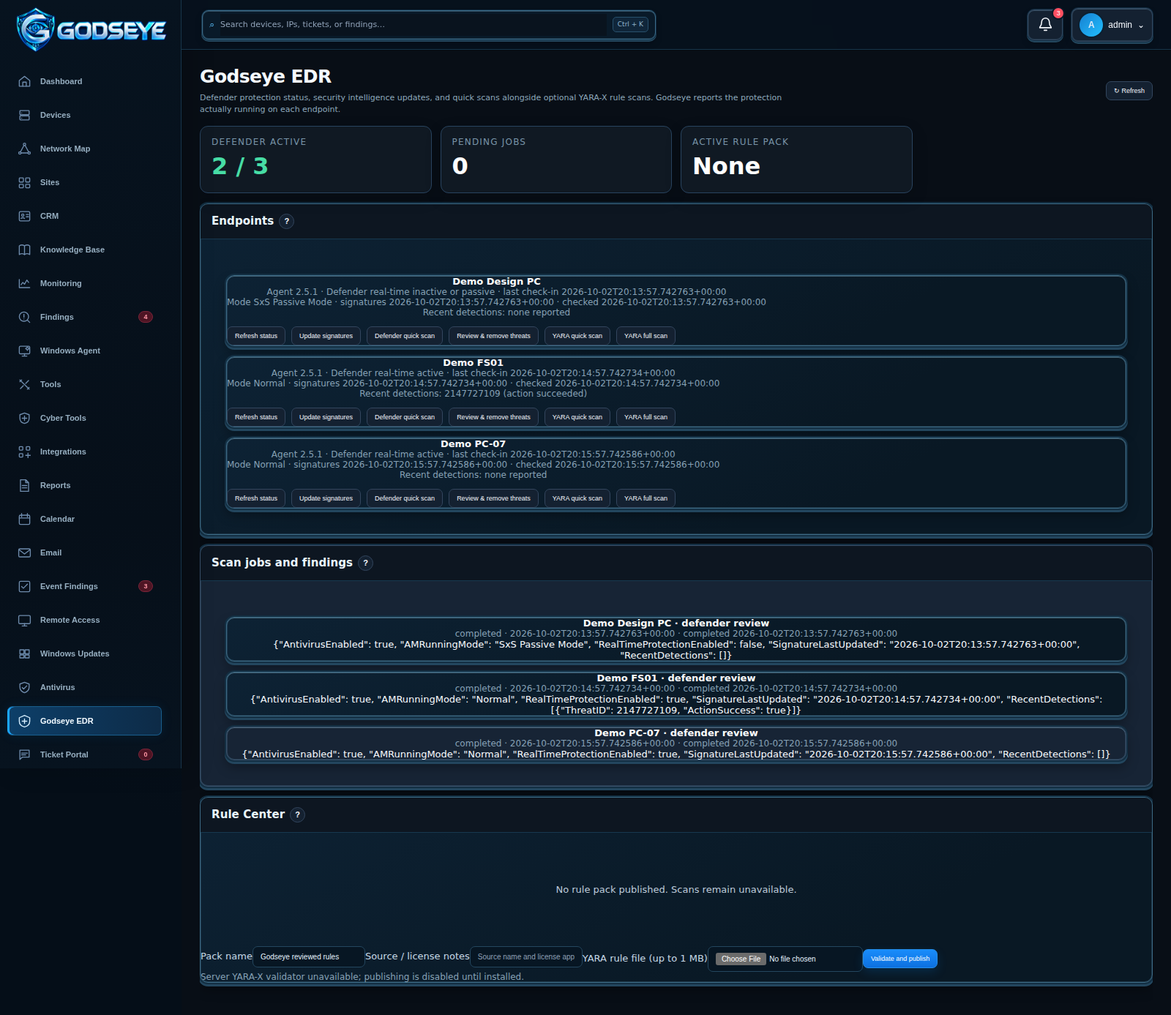
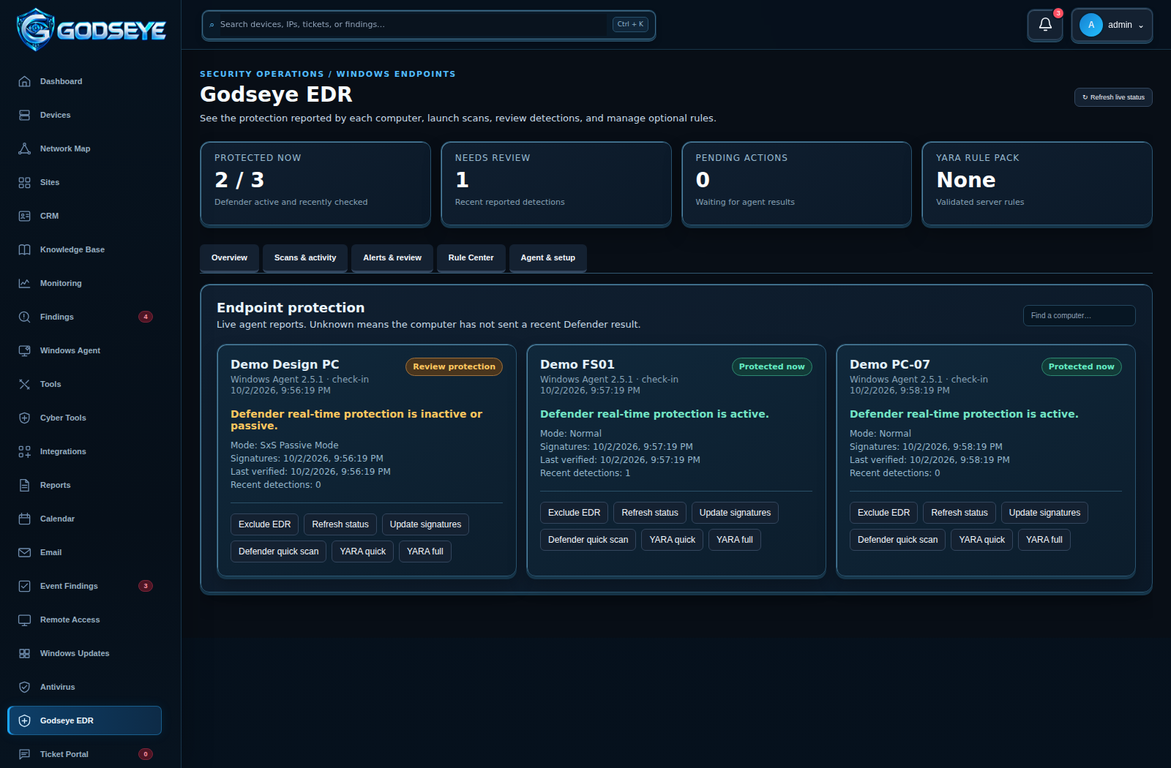
Bring Godseye EDR workspace closer to approved live mockup (#29)
* Match EDR workspace layout and actionable views

* Publish live EDR captures and exercise scan flow

diff --git a/app/main.py b/app/main.py
@@ -7123,6 +7123,7 @@ html:not([data-theme="dark"]) :is(.card,.panel,.tool-card,.integration-card,.ana
 html:not([data-theme="dark"]) :is(.v430-global-search,.v430-bell,.user-chip,.authcard .input,.authcard button.primary){border-radius:9px!important;box-shadow:inset 0 1px 0 rgba(255,255,255,.6),0 0 0 1px #d9e9f2,0 2px 0 1px #a6c7dc,0 5px 10px rgba(27,59,84,.12)!important}
 .role-access-card{margin:18px 16px;padding:18px;border:1px solid #3d6b86;border-radius:11px;background:linear-gradient(150deg,#0d2234,#091824);box-shadow:inset 0 1px #7699ad,0 3px #23465e,0 9px 16px #0005}
 .role-access-intro{padding:14px 18px 0}.role-access-tabs{display:flex;gap:8px;flex-wrap:wrap;margin:16px 0}.role-tab.selected{background:#1477c2;color:white;border-color:#4ab6fd}.role-access-head,.role-access-row{display:grid;grid-template-columns:minmax(140px,1fr) repeat(3,minmax(72px,108px));align-items:center;gap:5px;padding:8px 4px}.role-access-head{color:#89acc4;text-transform:uppercase;letter-spacing:1px;font-size:10px}.role-access-head span:not(:first-child){text-align:center}.role-access-row{border-bottom:1px solid #264153;min-height:39px}.role-access-row label{text-align:center;cursor:pointer}.role-access-row input{accent-color:#249cf0;width:17px;height:17px}.role-access-group{color:#62bafa;font-size:11px;font-weight:800;letter-spacing:1px;text-transform:uppercase;margin-top:16px;border-bottom:1px solid #35566d;padding:7px 4px}.role-access-card .actions{padding:18px 4px 0}@media(max-width:650px){.role-access-card{margin:12px 5px;padding:10px}.role-access-head,.role-access-row{grid-template-columns:minmax(105px,1fr) repeat(3,62px);font-size:11px}}
+.edr-workspace{max-width:1440px;margin:auto;color:#e8f4ff}.edr-header{display:flex;justify-content:space-between;align-items:center;gap:18px;margin:4px 0 21px}.edr-header h1{margin:5px 0 6px;font-size:28px}.edr-header p,.edr-section-heading p{color:#91b5d0;margin:0;font-size:13px;line-height:1.5}.edr-eyebrow{color:#51bcff;font-size:11px;font-weight:800;letter-spacing:.13em}.edr-metrics{display:grid;grid-template-columns:repeat(4,minmax(0,1fr));gap:13px}.edr-metric,.edr-tab-pane,.edr-endpoint,.edr-activity-row,.edr-rule-row,.edr-setup-grid>div{border:1px solid #2a5571;background:linear-gradient(145deg,#101f30,#0b1928);box-shadow:inset 1px 1px 0 #5183a0,0 4px 0 #17364a,0 13px 25px #0004;border-radius:13px}.edr-metric{padding:15px 19px;min-height:115px}.edr-metric span,.edr-metric small{display:block;color:#97b9cf}.edr-metric span{font-size:12px;letter-spacing:.08em;text-transform:uppercase}.edr-metric strong{display:block;font-size:28px;line-height:1.25;margin:6px 0;color:#f3faff}.edr-metric:first-child strong{color:#36d6aa}.edr-metric small{font-size:11px}.edr-tabs{display:flex;gap:5px;margin:26px 0 14px;border-bottom:1px solid #315771;overflow:auto}.edr-tab{padding:12px 16px;white-space:nowrap;border:0;border-bottom:3px solid transparent;background:transparent;color:#a4c7df;font-weight:700;cursor:pointer}.edr-tab:hover,.edr-tab.selected{color:#fff;background:#11314b}.edr-tab.selected{border-bottom-color:#36b7ff}.edr-tab-pane{padding:21px 22px;margin-bottom:18px;min-height:250px}.edr-tab-pane[hidden]{display:none}.edr-section-heading{display:flex;justify-content:space-between;gap:20px;align-items:center;margin-bottom:17px}.edr-section-heading h2{font-size:18px;margin:0 0 3px}.edr-section-heading input{max-width:255px}.edr-endpoints{display:grid;grid-template-columns:repeat(auto-fit,minmax(310px,1fr));gap:13px}.edr-endpoint{padding:18px;min-width:0;background:linear-gradient(150deg,#10283b,#0c1d2c)}.edr-endpoint-top{display:flex;justify-content:space-between;gap:10px;align-items:flex-start}.edr-endpoint h3{font-size:16px;margin:0 0 3px}.edr-endpoint small,.edr-endpoint .edr-meta{color:#94b6cb;font-size:12px}.edr-state{border:1px solid #4b6778;border-radius:99px;padding:5px 9px;font-size:11px;font-weight:800;white-space:nowrap;color:#b8d4e4}.edr-state.active{color:#64ecc3;border-color:#2e8a73;background:#123b38}.edr-state.warning{color:#ffc583;border-color:#9f713d;background:#49351d}.edr-endpoint-status{margin:17px 0 10px;font-size:14px;font-weight:700}.edr-endpoint-status.active{color:#73e4c5}.edr-endpoint-status.warning{color:#ffc583}.edr-endpoint .edr-meta{line-height:1.5;overflow-wrap:anywhere}.edr-actions{display:flex;gap:7px;flex-wrap:wrap;border-top:1px solid #2a5068;margin-top:15px;padding-top:14px}.edr-actions button{font-size:12px;padding:7px 10px}.edr-activity{display:grid;gap:9px}.edr-activity-row,.edr-rule-row{padding:13px 16px;display:flex;justify-content:space-between;gap:12px;align-items:center}.edr-activity-row b,.edr-rule-row b{display:block;font-size:14px}.edr-activity-row small,.edr-rule-row small{display:block;color:#95b7cf;margin-top:4px;line-height:1.5}.edr-result{color:#c9e2f3;margin-top:8px;font-size:12px;overflow-wrap:anywhere}.edr-rule-list{display:grid;gap:10px}.edr-rule-upload{display:grid;grid-template-columns:1fr 1fr 1fr auto;gap:12px;align-items:end;margin-top:20px;border-top:1px solid #32536a;padding-top:18px}.edr-rule-upload label{font-size:12px;color:#b6d3e5}.edr-rule-upload input{display:block;margin-top:6px;width:100%}.edr-setup-grid{display:grid;grid-template-columns:repeat(3,minmax(0,1fr));gap:14px}.edr-setup-grid>div{padding:19px}.edr-setup-grid p{color:#a5c1d3;font-size:13px;line-height:1.55;min-height:67px}.edr-empty{color:#a3bdd0;padding:30px;text-align:center}@media(max-width:1000px){.edr-metrics{grid-template-columns:repeat(2,1fr)}.edr-rule-upload,.edr-setup-grid{grid-template-columns:1fr}}@media(max-width:560px){.edr-metrics{grid-template-columns:1fr 1fr}.edr-metric{padding:12px;min-height:100px}.edr-metric strong{font-size:22px}.edr-section-heading{display:block}.edr-section-heading input{margin-top:12px;max-width:100%}.edr-tab-pane{padding:14px}.edr-header{align-items:flex-start}}
 </style><link rel="stylesheet" href="/assets/sites.css"><link rel="stylesheet" href="/assets/crm.css"><link rel="stylesheet" href="/assets/kb.css"></head>
 <body>
 <div id="authOverlay" class="overlay" style="display:none">
@@ -7585,11 +7586,30 @@ html:not([data-theme="dark"]) :is(.v430-global-search,.v430-bell,.user-chip,.aut
 </div>
 
 <div class="view" id="view-edr" style="display:none">
-  <div class="hero"><div><h1>Godseye EDR</h1><div class="muted">Defender protection status, security intelligence updates, and quick scans alongside optional YARA-X rule scans. Godseye reports the protection actually running on each endpoint.</div></div><div class="actions"><button class="secondary" onclick="loadEdr()">↻ Refresh</button></div></div>
-  <div class="cards"><div class="card"><div class="label">Defender active</div><div class="num green" id="edrProtected">—</div></div><div class="card"><div class="label">Pending jobs</div><div class="num" id="edrPending">—</div></div><div class="card"><div class="label">Active rule pack</div><div class="num" id="edrPack">—</div></div></div>
-  <section class="panel"><div class="table-head"><div><h2>Endpoints</h2><div class="muted">Enable Godseye monitoring per endpoint. Defender supplies real-time protection when active. The existing agent and remote support continue when Godseye EDR is excluded.</div></div></div><div id="edrEndpoints" class="empty">Loading…</div></section>
-  <section class="panel"><div class="table-head"><div><h2>Scan jobs and findings</h2><div class="muted">A rule match needs review. A scan error is shown as an error, never as a clean result.</div></div></div><div id="edrJobs" class="empty">Loading…</div></section>
-  <section class="panel"><div class="table-head"><div><h2>Rule Center</h2><div class="muted">Review licenses and source before publishing. Rule packs are checked by YARA-X on the server.</div></div></div><div id="edrRules" class="empty">Loading…</div><div class="admin-only"><label>Pack name<input id="edrRuleName" class="input" value="Godseye reviewed rules" maxlength="120"></label><label>Source / license notes<input id="edrRuleSource" class="input" placeholder="Source name and license approval" maxlength="200"></label><label>YARA rule file (up to 1 MB)<input id="edrRuleFile" class="input" type="file" accept=".yar,.yara,text/plain"></label><div class="actions"><button class="primary" onclick="publishEdrRules()">Validate and publish</button></div></div><div id="edrStatus" class="muted" role="status"></div></section>
+ <div class="edr-workspace">
+  <div class="edr-header"><div><div class="edr-eyebrow">SECURITY OPERATIONS / WINDOWS ENDPOINTS</div><h1>Godseye EDR</h1><p>See the protection reported by each computer, launch scans, review detections, and manage optional rules.</p></div><div class="actions"><button class="secondary" onclick="loadEdr()">↻ Refresh live status</button></div></div>
+  <div class="edr-metrics">
+   <div class="edr-metric"><span>Protected now</span><strong id="edrProtected">—</strong><small>Defender active and recently checked</small></div>
+   <div class="edr-metric"><span>Needs review</span><strong id="edrAlerts">—</strong><small>Recent reported detections</small></div>
+   <div class="edr-metric"><span>Pending actions</span><strong id="edrPending">—</strong><small>Waiting for agent results</small></div>
+   <div class="edr-metric"><span>YARA rule pack</span><strong id="edrPack">—</strong><small>Validated server rules</small></div>
+  </div>
+  <div class="edr-tabs" role="tablist" aria-label="Godseye EDR sections">
+   <button class="edr-tab selected" type="button" role="tab" aria-selected="true" data-edr-tab="overview" onclick="showEdrTab('overview')">Overview</button>
+   <button class="edr-tab" type="button" role="tab" aria-selected="false" data-edr-tab="scans" onclick="showEdrTab('scans')">Scans &amp; activity</button>
+   <button class="edr-tab" type="button" role="tab" aria-selected="false" data-edr-tab="alerts" onclick="showEdrTab('alerts')">Alerts &amp; review</button>
+   <button class="edr-tab" type="button" role="tab" aria-selected="false" data-edr-tab="rules" onclick="showEdrTab('rules')">Rule Center</button>
+   <button class="edr-tab" type="button" role="tab" aria-selected="false" data-edr-tab="setup" onclick="showEdrTab('setup')">Agent &amp; setup</button>
+  </div>
+  <div class="edr-tab-pane" data-edr-pane="overview">
+   <div class="edr-section-heading"><div><h2>Endpoint protection</h2><p>Live agent reports. Unknown means the computer has not sent a recent Defender result.</p></div><input id="edrSearch" class="input" type="search" placeholder="Find a computer…" aria-label="Find an EDR computer" oninput="renderEdrEndpoints()"></div>
+   <div id="edrEndpoints" class="edr-endpoints"><div class="empty">Loading endpoints…</div></div>
+  </div>
+  <div class="edr-tab-pane" data-edr-pane="scans" hidden><div class="edr-section-heading"><div><h2>Scans &amp; activity</h2><p>Queued commands and reported results from the enrolled Windows Agents.</p></div></div><div id="edrJobs" class="edr-activity"><div class="empty">Loading activity…</div></div></div>
+  <div class="edr-tab-pane" data-edr-pane="alerts" hidden><div class="edr-section-heading"><div><h2>Alerts &amp; review</h2><p>Review Defender detections and YARA matches before taking action.</p></div></div><div id="edrAlertList" class="edr-activity"><div class="empty">Loading detections…</div></div></div>
+  <div class="edr-tab-pane" data-edr-pane="rules" hidden><div class="edr-section-heading"><div><h2>Rule Center</h2><p>Validate a local YARA file, publish it, or activate an earlier reviewed pack.</p></div></div><div id="edrRules" class="edr-rule-list"><div class="empty">Loading rule packs…</div></div><div class="edr-rule-upload admin-only"><label>Pack name<input id="edrRuleName" class="input" value="Godseye reviewed rules" maxlength="120"></label><label>Source and license notes<input id="edrRuleSource" class="input" placeholder="Rule source and license approval" maxlength="200"></label><label>YARA file, up to 1 MB<input id="edrRuleFile" class="input" type="file" accept=".yar,.yara,text/plain"></label><button class="primary" onclick="publishEdrRules()">Validate &amp; publish</button></div><p id="edrStatus" class="muted" role="status"></p></div>
+  <div class="edr-tab-pane" data-edr-pane="setup" hidden><div class="edr-section-heading"><div><h2>Agent &amp; setup</h2><p>EDR monitoring is optional. Core remote support remains available when EDR is excluded.</p></div></div><div class="edr-setup-grid"><div><b>1 · Enroll the computer</b><p>Install Windows Agent 2.5.1, then confirm it checks in.</p><button class="secondary" onclick="openWindowsAgentModal()">Open Windows Agent setup</button></div><div><b>2 · Select EDR</b><p>In Overview, enable monitoring on the computer. Defender continues to use Microsoft's own security intelligence and protection settings.</p><button class="secondary" onclick="showEdrTab('overview')">View endpoints</button></div><div><b>3 · Add optional YARA scans</b><p>Install the scanner component and publish reviewed YARA rules. Rule matches require technician review.</p><button class="secondary" onclick="showEdrTab('rules')">Open Rule Center</button></div></div></div>
+ </div>
 </div>
 
 <div class="view" id="view-tickets" style="display:none">
@@ -8909,22 +8929,58 @@ async function closeCurrentTicket(){
 }
 async function loadClamAvAgents(){const el=document.getElementById('clamavAgentList');if(!el)return;try{const rows=await json('/api/v1/windows-agents');const agents=Array.isArray(rows)?rows:[];el.innerHTML=agents.length?agents.map(a=>`<div class="panel" style="display:flex;align-items:center;justify-content:space-between;gap:12px;margin:8px 0"><div><b>${esc(a.computer_name||a.hostname||'Windows Agent')}</b><div class="muted">${esc(a.agent_version||'unknown')} · ${a.online?'Online':'Offline'} · ClamAV runs locally</div></div><button class="primary" ${a.online?'':'disabled'} onclick="queueClamAvScan(${a.id})">Scan with ClamAV</button></div>`).join(''):'<div class="empty">No enrolled Windows Agents.</div>'}catch(e){el.textContent='Unable to load Windows Agents: '+e.message}}
 async function queueClamAvScan(id){try{const r=await json('/api/v1/windows-agents/'+id+'/clamav-scan',{method:'POST'});alert(r.message||'ClamAV scan queued.')}catch(e){alert('Could not queue ClamAV scan: '+e.message)}}
+let EDR_VIEW_DATA=null;
+function showEdrTab(name){
+  document.querySelectorAll('#view-edr .edr-tab').forEach(el=>{const selected=el.dataset.edrTab===name;el.classList.toggle('selected',selected);el.setAttribute('aria-selected',String(selected))});
+  document.querySelectorAll('#view-edr .edr-tab-pane').forEach(el=>el.hidden=el.dataset.edrPane!==name);
+}
+function edrTime(value){if(!value)return 'Never';const date=new Date(value);return Number.isNaN(date.getTime())?'Unknown':date.toLocaleString()}
+function edrFresh(a){return !!(a.defender_checked_at&&Date.now()-Date.parse(a.defender_checked_at)<10*60*1000&&Date.parse(a.defender_checked_at)<=Date.now()+60000)}
+function edrDetections(a){const items=a.defender?.RecentDetections;return Array.isArray(items)?items:(items?[items]:[])}
+function edrJobSummary(j){
+  const result=j.result||{};
+  if(j.status==='failed'||result.ok===false)return result.details||result.error||'The agent reported a failed action.';
+  if(['pending','delivered'].includes(j.status))return 'Waiting for the agent to report its result.';
+  if(j.command_type==='defender_review')return 'Protection status received from the computer.';
+  if(result.details)return String(result.details);
+  if(j.command_type==='defender_quick_scan')return 'Defender scan completed. Review the endpoint status and protection history.';
+  if(j.command_type==='defender_update')return 'Defender security intelligence update completed.';
+  if(j.command_type==='defender_remediate')return 'Defender removal command completed. Refresh status to verify the outcome.';
+  if(j.command_type==='edr_scan'){const matches=result.matches||result.findings||[];return matches.length?matches.length+' YARA match(es) require review.':'YARA scan completed without reported matches.'}
+  return 'Agent completed the action.';
+}
+function renderEdrEndpoints(){
+ const el=document.getElementById('edrEndpoints');if(!el||!EDR_VIEW_DATA)return;
+ const query=(document.getElementById('edrSearch')?.value||'').trim().toLowerCase(),agents=(EDR_VIEW_DATA.agents||[]).filter(a=>!query||String(a.computer_name||'').toLowerCase().includes(query));
+ el.innerHTML=agents.length?agents.map(a=>{
+  const version=String(a.agent_version||'0.0.0').split('.').map(Number),ready=version[0]>2||(version[0]===2&&version[1]>=5),updateReady=ready&&(version[0]>2||version[1]>5||version[2]>=1);
+  const fresh=edrFresh(a),active=a.edr_enabled&&fresh&&a.defender?.RealTimeProtectionEnabled===true;
+  const detections=edrDetections(a),state=!a.edr_enabled?'EDR excluded':!fresh?'Status unknown':active?'Protected now':'Review protection';
+  const status=!a.edr_enabled?'Monitoring is off for this endpoint.':!fresh?'No recent Defender report. Refresh this computer.':active?'Defender real-time protection is active.':'Defender real-time protection is inactive or passive.';
+  return `<article class="edr-endpoint"><div class="edr-endpoint-top"><div><h3>${esc(a.computer_name||'Windows computer')}</h3><small>Windows Agent ${esc(a.agent_version||'unknown')} · check-in ${esc(edrTime(a.last_heartbeat_at))}</small></div><span class="edr-state ${active?'active':'warning'}">${esc(state)}</span></div><div class="edr-endpoint-status ${active?'active':'warning'}">${esc(status)}</div><div class="edr-meta">Mode: ${esc(a.defender?.AMRunningMode||'Unknown')}<br>Signatures: ${esc(edrTime(a.defender?.SignatureLastUpdated))}<br>Last verified: ${esc(edrTime(a.defender_checked_at))}<br>Recent detections: ${detections.length}</div><div class="edr-actions"><button class="secondary admin-only" ${ready?'':'disabled'} onclick="setEdrPolicy(${a.id},${a.edr_enabled?0:1})">${a.edr_enabled?'Exclude EDR':'Enable EDR'}</button><button class="secondary operate-only" ${ready&&a.edr_enabled?'':'disabled'} onclick="queueDefender(${a.id},'refresh')">Refresh status</button><button class="secondary operate-only" ${updateReady&&a.edr_enabled?'':'disabled'} onclick="queueDefender(${a.id},'update')">Update signatures</button><button class="secondary operate-only" ${ready&&a.edr_enabled&&active?'':'disabled'} onclick="queueDefender(${a.id},'quick')">Defender quick scan</button><button class="secondary operate-only" ${ready&&a.edr_enabled&&EDR_VIEW_DATA.active_pack?'':'disabled'} onclick="queueEdrScan(${a.id},'quick')">YARA quick</button><button class="secondary operate-only" ${ready&&a.edr_enabled&&EDR_VIEW_DATA.active_pack?'':'disabled'} onclick="queueEdrScan(${a.id},'full')">YARA full</button></div></article>`;
+ }).join(''):'<div class="edr-empty">No enrolled Windows computers match this search.</div>';
+ applyRoleVisibility();
+}
 async function loadEdr(){
-  const target=document.getElementById('edrEndpoints');if(!target)return;
-  try{
-    const d=await json('/api/v1/edr/overview'),agents=d.agents||[],jobs=d.jobs||[];
-    document.getElementById('edrProtected').textContent=agents.filter(a=>a.edr_enabled&&a.defender?.RealTimeProtectionEnabled===true&&a.defender_checked_at&&Date.now()-Date.parse(a.defender_checked_at)<10*60*1000).length+' / '+agents.filter(a=>a.edr_enabled).length;
-    document.getElementById('edrPending').textContent=jobs.filter(j=>['pending','delivered'].includes(j.status)).length;
-    document.getElementById('edrPack').textContent=d.active_pack?'v'+d.active_pack.version:'None';
-    target.innerHTML=agents.length?agents.map(a=>{const capable=(a.agent_version||'').split('.').map(Number);const ready=capable[0]>2||(capable[0]===2&&capable[1]>=5),updateReady=ready&&(capable[0]>2||capable[1]>5||capable[2]>=1);
-      const fresh=a.defender_checked_at&&Date.now()-Date.parse(a.defender_checked_at)<10*60*1000;const state=!a.edr_enabled?'Godseye monitoring excluded':!fresh?'Defender status unknown or stale':a.defender?.RealTimeProtectionEnabled===true?'Defender real-time active':'Defender real-time inactive or passive';
-      const detections=Array.isArray(a.defender?.RecentDetections)?a.defender.RecentDetections:(a.defender?.RecentDetections?[a.defender.RecentDetections]:[]);
-      const details=a.edr_enabled&&a.defender_checked_at?`<div class="muted">Mode ${esc(a.defender?.AMRunningMode||'unknown')} · signatures ${esc(a.defender?.SignatureLastUpdated||'unknown')} · checked ${esc(a.defender_checked_at)}</div><div class="muted">Recent detections: ${detections.length?detections.map(x=>esc(String(x.ThreatID||'unknown')+' ('+(x.ActionSuccess?'action succeeded':'review action')+')')).join(', '):'none reported'}</div>`:'';
-      return `<div class="panel" style="display:flex;flex-wrap:wrap;justify-content:space-between;gap:12px;align-items:center"><div><b>${esc(a.computer_name)}</b><div class="muted">Agent ${esc(a.agent_version||'unknown')} · ${esc(state)} · last check-in ${esc(a.last_heartbeat_at||'never')}</div>${details}</div><div class="actions"><button class="secondary admin-only" ${ready?'':'disabled'} onclick="setEdrPolicy(${a.id},${a.edr_enabled?0:1})">${a.edr_enabled?'Exclude EDR':'Enable EDR'}</button><button class="secondary" ${ready&&a.edr_enabled?'':'disabled'} onclick="queueDefender(${a.id},'refresh')">Refresh status</button><button class="secondary" ${updateReady&&a.edr_enabled?'':'disabled'} onclick="queueDefender(${a.id},'update')">Update signatures</button><button class="secondary" ${ready&&a.edr_enabled&&a.defender?.RealTimeProtectionEnabled===true?'':'disabled'} onclick="queueDefender(${a.id},'quick')">Defender quick scan</button><button class="secondary" ${ready&&a.edr_enabled&&detections.length?'':'disabled'} onclick="queueDefender(${a.id},'remediate')">Review &amp; remove threats</button><button class="secondary" ${ready&&a.edr_enabled&&d.active_pack?'':'disabled'} onclick="queueEdrScan(${a.id},'quick')">YARA quick scan</button><button class="secondary" ${ready&&a.edr_enabled&&d.active_pack?'':'disabled'} onclick="queueEdrScan(${a.id},'full')">YARA full scan</button></div></div>`}).join(''):'<div class="empty">No enrolled Windows Agents.</div>';
-    document.getElementById('edrJobs').innerHTML=jobs.length?jobs.map(j=>`<div class="panel"><b>${esc(j.computer_name)} · ${esc(j.command_type==='edr_scan'?j.scan_type+' YARA scan':j.command_type.replaceAll('_',' '))}</b><div class="muted">${esc(j.status)} · ${esc(j.requested_at)} ${j.completed_at?'· completed '+esc(j.completed_at):''}</div><div>${esc(j.result?.details||'Waiting for agent check-in')}</div></div>`).join(''):'<div class="empty">No scans queued yet.</div>';
-    document.getElementById('edrRules').innerHTML=(d.packs||[]).length?d.packs.map(p=>`<div class="panel"><b>v${p.version} · ${esc(p.name)}</b> ${p.active?'<span class="badge">Active</span>':`<button class="secondary admin-only" onclick="activateEdrRules(${p.version})">Activate / rollback</button>`}<div class="muted">${esc(p.source)} · SHA-256 ${esc(p.sha256.slice(0,16))}… · ${esc(p.created_at)}</div></div>`).join(''):'<div class="empty">No rule pack published. Scans remain unavailable.</div>';
-    document.getElementById('edrStatus').textContent=d.engine_ready?'Server rule validator ready.':'Server YARA-X validator unavailable; publishing is disabled until installed.';
-  }catch(e){target.textContent='Could not load EDR: '+e.message}
+ const target=document.getElementById('edrEndpoints');if(!target)return;
+ try{
+  const d=await json('/api/v1/edr/overview'),agents=d.agents||[],jobs=d.jobs||[];EDR_VIEW_DATA=d;
+  const monitored=agents.filter(a=>a.edr_enabled),protectedNow=monitored.filter(a=>edrFresh(a)&&a.defender?.RealTimeProtectionEnabled===true);
+  const detections=monitored.flatMap(a=>edrDetections(a).map(x=>({agent:a,threat:x})));
+  const matches=jobs.filter(j=>j.command_type==='edr_scan'&&j.status==='completed').flatMap(j=>(j.result?.matches||j.result?.findings||[]).map(x=>({job:j,match:x})));
+  document.getElementById('edrProtected').textContent=protectedNow.length+' / '+monitored.length;
+  document.getElementById('edrAlerts').textContent=String(detections.length+matches.length);
+  document.getElementById('edrPending').textContent=String(jobs.filter(j=>['pending','delivered'].includes(j.status)).length);
+  document.getElementById('edrPack').textContent=d.active_pack?'v'+d.active_pack.version:'None';
+  renderEdrEndpoints();
+  document.getElementById('edrJobs').innerHTML=jobs.length?jobs.map(j=>`<div class="edr-activity-row"><div><b>${esc(j.computer_name)} · ${esc(j.command_type==='edr_scan'?j.scan_type+' YARA scan':String(j.command_type||'agent action').replaceAll('_',' '))}</b><small>${esc(edrTime(j.requested_at))} · ${esc(j.status)}${j.completed_at?' · finished '+esc(edrTime(j.completed_at)):''}</small><div class="edr-result">${esc(edrJobSummary(j))}</div></div><span class="edr-state ${j.status==='failed'?'warning':j.status==='completed'?'active':''}">${esc(j.status)}</span></div>`).join(''):'<div class="edr-empty">No scans or actions have been queued yet. Select a computer in Overview to begin.</div>';
+  const alertItems=detections.map(({agent,threat})=>`<div class="edr-activity-row"><div><b>${esc(agent.computer_name)} · Defender threat ${esc(String(threat.ThreatID||'unknown'))}</b><small>${esc(threat.ActionSuccess?'Defender reports an action succeeded':'Technician review needed')} · last checked ${esc(edrTime(agent.defender_checked_at))}</small><div class="edr-result">Confirm the detection in Windows Security protection history before removal.</div></div><button class="secondary operate-only" onclick="queueDefender(${agent.id},'remediate')">Review &amp; remove</button></div>`);
+  alertItems.push(...matches.map(({job,match})=>`<div class="edr-activity-row"><div><b>${esc(job.computer_name)} · YARA rule match</b><small>${esc(edrTime(job.completed_at))} · review required</small><div class="edr-result">${esc(typeof match==='string'?match:JSON.stringify(match))}</div></div><span class="edr-state warning">Review</span></div>`));
+  document.getElementById('edrAlertList').innerHTML=alertItems.length?alertItems.join(''):'<div class="edr-empty">No detections or YARA matches reported by monitored computers. This is not a substitute for checking endpoint protection status.</div>';
+  document.getElementById('edrRules').innerHTML=(d.packs||[]).length?d.packs.map(p=>`<div class="edr-rule-row"><div><b>v${p.version} · ${esc(p.name)}</b><small>${esc(p.source)} · SHA-256 ${esc(p.sha256.slice(0,16))}… · ${esc(edrTime(p.created_at))}</small></div>${p.active?'<span class="edr-state active">Active</span>':`<button class="secondary admin-only" onclick="activateEdrRules(${p.version})">Activate / rollback</button>`}</div>`).join(''):'<div class="edr-empty">No YARA rules published yet. Defender protection and scans do not require a YARA pack.</div>';
+  document.getElementById('edrStatus').textContent=d.engine_ready?'Server YARA-X rule validator is ready.':'YARA-X validator is unavailable on the server; rule publishing requires setup.';
+  applyRoleVisibility();
+ }catch(e){target.textContent='Could not load EDR: '+e.message}
 }
 async function queueDefender(id,action){if(action==='remediate'&&!confirm('Ask Microsoft Defender to remove detected threats on this computer? Review its results after completion.'))return;try{await json('/api/v1/edr/agents/'+id+'/defender/'+action,{method:'POST'});loadEdr()}catch(e){alert('Could not queue Defender action: '+e.message)}}
 async function setEdrPolicy(id,enabled){try{await json('/api/v1/edr/agents/'+id+'/policy',{method:'POST',body:JSON.stringify({enabled:!!enabled})});loadEdr()}catch(e){alert('Could not save EDR policy: '+e.message)}}
@@ -11023,4 +11079,3 @@ def remediation_history(limit:int=100,user=Depends(require_admin)):
 
 register_site_routes(app, __import__(__name__, fromlist=["app"]))
 register_crm_routes(app, __import__(__name__, fromlist=["app"]))
-

diff --git a/scripts/capture_ui.py b/scripts/capture_ui.py
@@ -92,7 +92,29 @@ async def main():
                 assert await page.locator("#view-about .about-tagline").inner_text() == (
                     "Network Intelligence · Security Operations · MSP Workflow · Self-Hosted Control"
                 )
+            if view == "edr":
+                await page.locator("#edrEndpoints .edr-endpoint").first.wait_for()
+                assert await page.locator("#edrEndpoints .edr-endpoint").count() == 3
+                assert await page.locator("#edrProtected").inner_text() == "2 / 3"
             await page.screenshot(path=str(OUT / filename), full_page=True)
+            if view == "edr":
+                await page.get_by_role("tab", name="Alerts & review").click()
+                await page.locator("#edrAlertList .edr-activity-row").first.wait_for()
+                await page.screenshot(path=str(OUT / "v431-godseye-edr-alerts-guide.png"), full_page=True)
+                await page.get_by_role("tab", name="Rule Center").click()
+                await page.screenshot(path=str(OUT / "v431-godseye-edr-rules-guide.png"), full_page=True)
+                # Exercise the live endpoint filter and command path after the captures.
+                await page.get_by_role("tab", name="Overview").click()
+                await page.fill("#edrSearch", "FS01")
+                assert await page.locator("#edrEndpoints .edr-endpoint").count() == 1
+                await page.locator("#edrEndpoints .edr-endpoint").get_by_role(
+                    "button", name="Defender quick scan"
+                ).click()
+                await page.wait_for_function(
+                    "() => document.getElementById('edrPending').textContent === '1'"
+                )
+                await page.get_by_role("tab", name="Scans & activity").click()
+                assert "pending" in (await page.locator("#edrJobs").inner_text()).lower()
 
         # Pair a second, seeded GODSEYE over authenticated HTTPS and capture
         # the actual workspace, including remotely loaded devices and tickets.

diff --git a/docs/GODSEYE_EDR.md b/docs/GODSEYE_EDR.md
@@ -13,6 +13,16 @@ The endpoint must have Agent 2.5.0 or newer for status, quick scans, and YARA sc
 
 *Screenshot uses labeled demonstration endpoints; live values come from each Windows Agent.*
 
+The page follows the approved EDR workspace layout: summary numbers at the top and separate **Overview**, **Scans & activity**, **Alerts & review**, **Rule Center**, and **Agent & setup** tabs. The counts and cards are populated from enrolled computers rather than fixed demonstration data. Search in Overview filters the endpoint cards by computer name.
+
+![Godseye EDR alerts and review](screenshots/v431-godseye-edr-alerts-guide.png)
+
+**Alerts & review** lists recent Defender detections and reported YARA matches. The **Review & remove** action uses Defender's removal command after confirmation; the page does not claim to have a separate Godseye quarantine engine. **Scans & activity** shows each queued action and a readable result instead of raw command JSON.
+
+![Godseye EDR Rule Center](screenshots/v431-godseye-edr-rules-guide.png)
+
+**Rule Center** accepts a local reviewed YARA file, checks it with the server validator, and keeps earlier validated packs available for activation or rollback. **Agent & setup** links to the existing Windows Agent enrollment flow and explains the optional scanner component.
+
 1. Open **Godseye EDR** as an administrator and choose **Enable EDR** on the Windows endpoint. Defender status is requested automatically at most once every five minutes while the endpoint is connected. A stale or missing result reads **unknown**.
 2. Read **Defender real-time active**, **inactive or passive**, or **unknown** in the endpoint card. Check the running mode, last signature update, recent detection IDs, and the time Godseye checked. Choose **Refresh status** to request another reading.
 3. When enabled, Godseye also asks the Agent to read warning and error events from the Windows Defender Operational log. These flow into **Windows Event Findings** using the existing Defender event classification. Disabling EDR removes that channel from the Agent's server-managed list on its next heartbeat. Defender's own protection remains controlled by Windows.
